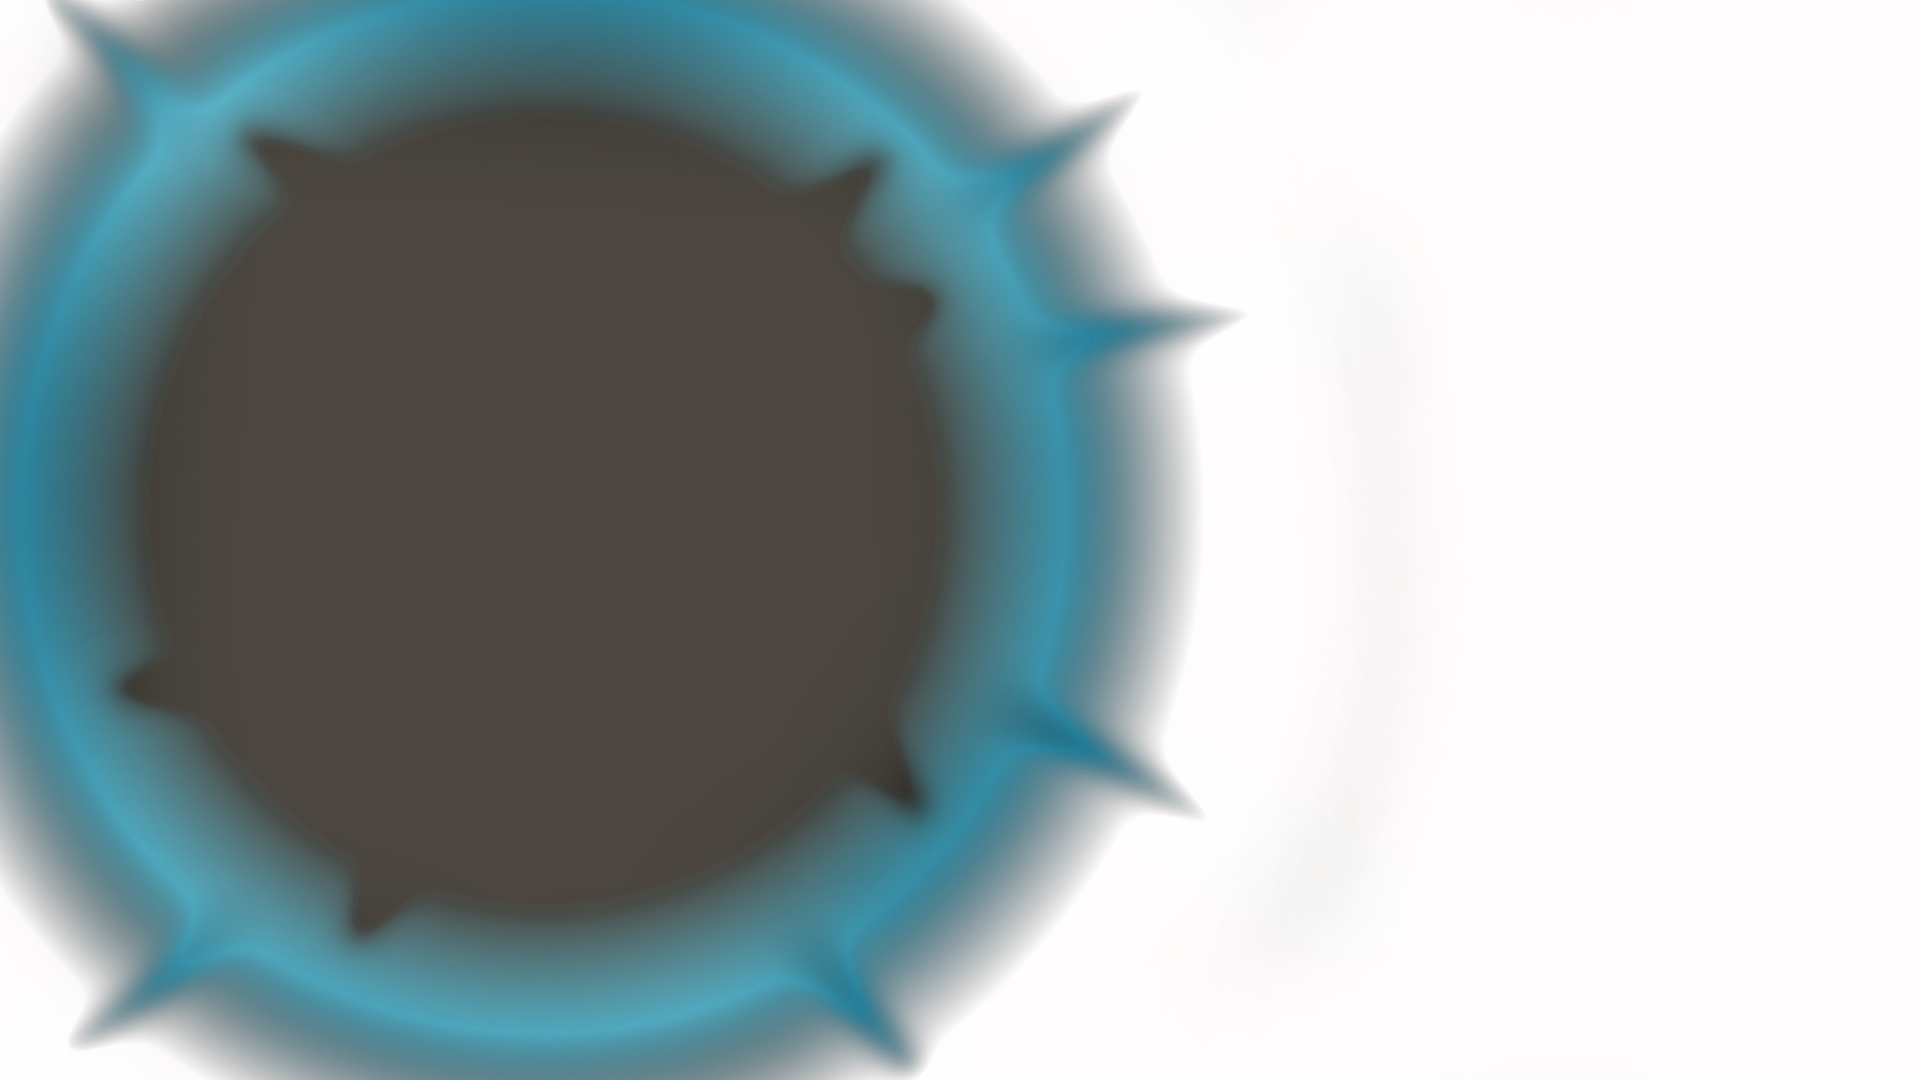
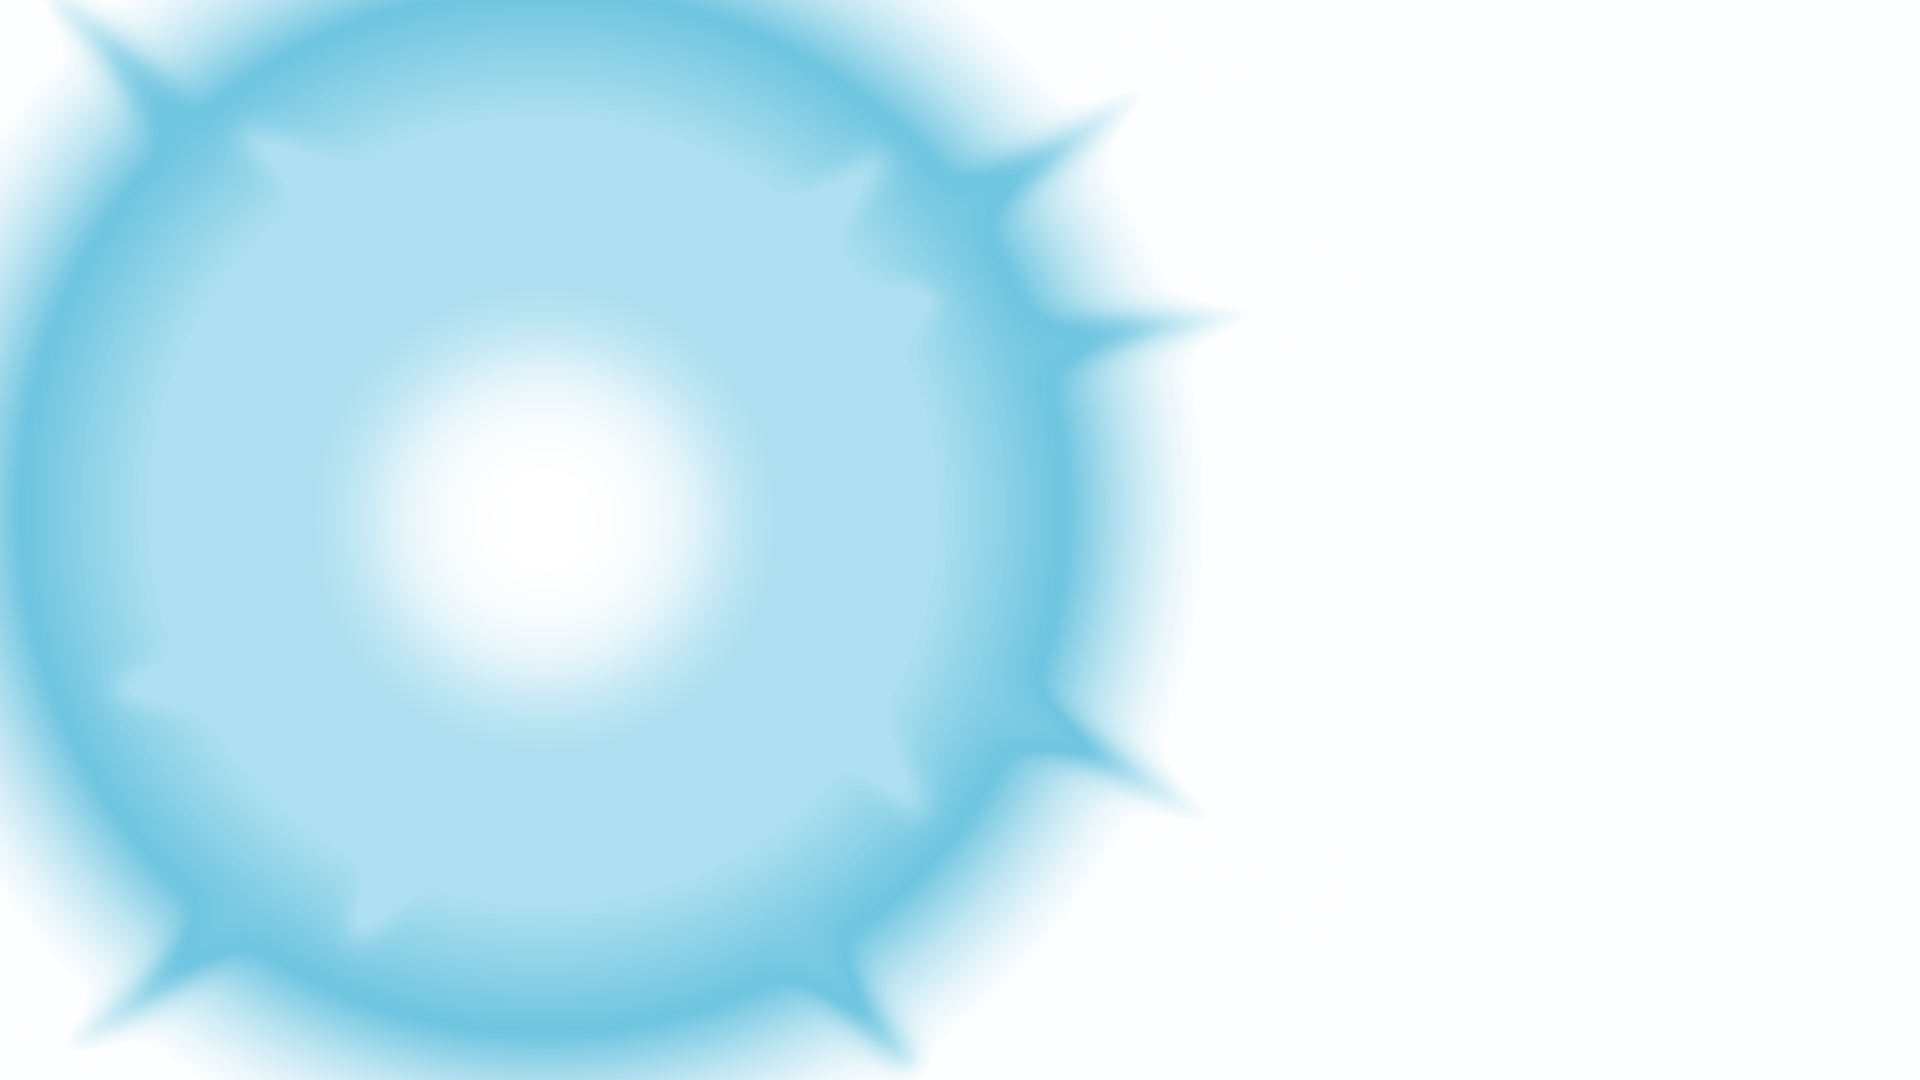
switch back to light mode, improve visual clarity

diff --git a/src/main.js b/src/main.js
@@ -46,7 +46,7 @@ function resize() {
 resize();
 window.addEventListener('resize', resize);
 
-scene.background = new THREE.Color(0x36393F);
+scene.background = new THREE.Color(0xD7130E);
 
 import frame1Src from './1.png';
 import frame2Src from './2.png';
@@ -82,9 +82,9 @@ setInterval(() => {
 
 // the fun lines in the background
 const lines = [];
-const lineGeometry = new THREE.PlaneBufferGeometry(300, 1);
+const lineGeometry = new THREE.PlaneBufferGeometry(400, 1);
 const lineSpawningRange = 1;
-for (let i = 0; i < 30; i++) {
+for (let i = 0; i < 20; i++) {
     const line = new THREE.Mesh(lineGeometry, new THREE.MeshBasicMaterial({
         color: 0xFFFFFF,
         transparent: true,
@@ -94,7 +94,7 @@ for (let i = 0; i < 30; i++) {
     }));
     line.scale.y = Math.random() * 3;
     line.position.x = (Math.random() * 2 - 1) * lineSpawningRange + 45;
-    line.position.y = (Math.random() * 2 - 1) * lineSpawningRange + 30 * (Math.random() > 0.5 ? -1 : 1);
+    line.position.y = (Math.random() * 2 - 1) * lineSpawningRange - 30;
     line.position.z = -40;
     //line.rotation.x = Math.random() * Math.PI;
     line.rotation.y = (Math.random() - 0.5) * Math.PI / 3;
@@ -276,7 +276,7 @@ function changeBorpa() {
         drawFancyText(wrappedText[i], fontSize + fontSize * i, borpaNameCtx, borpaNameCanvas);
     }
     borpaNameCtx.font = fontSize * 0.5 + 'px ' + defaultFont;
-    borpaNameCtx.fillStyle = '#FFFFFF';
+    borpaNameCtx.fillStyle = '#000000';
     borpaNameCtx.fillText('Made by ' + borpadex[borpaKeys[borpaIndex]].artist, borpaNameCanvas.width / 2, fontSize * (wrappedText.length + 1));
     borpaName.material.needsUpdate = true;
     borpaNameTexture.needsUpdate = true;
@@ -290,7 +290,7 @@ function changeBorpa() {
     //borpaNumberCtx.strokeText(`#${withLeadingZeros(borpaKeys[borpaIndex], 4)}`, borpaNumberCanvas.width / 2, borpaNumberCanvas.height - fontSize);
     drawFancyText(`#${withLeadingZeros(borpaKeys[borpaIndex], 4)}`, borpaNumberCanvas.height - fontSize, borpaNumberCtx, borpaNumberCanvas);
     borpaNumberCtx.font = (fontSize / 2) + 'px ' + defaultFont;
-    borpaNumberCtx.fillStyle = '#FFFFFF';
+    borpaNumberCtx.fillStyle = '#000000';
     borpaNumberCtx.fillText(`${borpadex[borpaKeys[borpaIndex]].originalName}`, borpaNumberCanvas.width / 2, borpaNumberCanvas.height - fontSize * 2);
     borpaNumber.material.needsUpdate = true;
     borpaNumberTexture.needsUpdate = true;
@@ -430,15 +430,15 @@ const emoteArray = [];
 ChatInstance.on("emotes", (emotes) => {
     const group = new THREE.Group();
 
-    group.position.x = -5;
-    group.position.y = 0;
+    group.position.x = 9;
+    group.position.y = -5.5;
     group.dateSpawned = Date.now();
 
-    const direction = (Math.random() * Math.PI * 0.4) + Math.PI * 0.3;
+    const direction = (Math.PI * 1.25) + (Math.random() * Math.PI * 0.4) + Math.PI * 0.3;
     group.velocity = new THREE.Vector3(Math.sin(direction), Math.cos(direction, 0));
     group.velocity.multiplyScalar(1.5);
 
-    group.rotation.z = -direction + Math.PI / 2;
+    group.rotation.z = -direction - Math.PI / 2;
 
     group.scale.setScalar(0.5);
 
